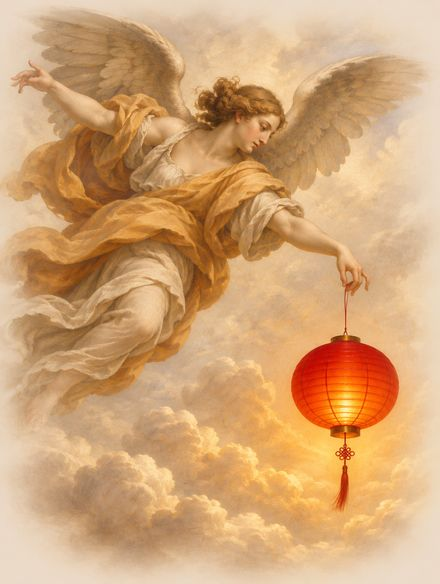
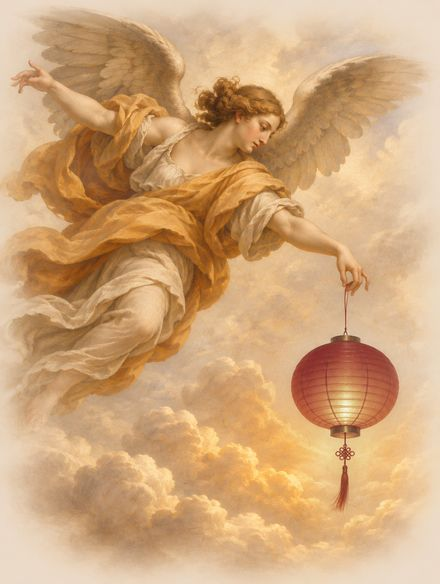
Fade the lantern in the hero painting
Desaturate the lantern area of the painting and soften the glow
overlay so the red sits with the fresco palette.

Claude-Session: https://claude.ai/code/session_01VMC75dovcyg8xHeWok5tKD

Changed region(s): [[0.6205, 0.524, 0.9455, 0.8938]]

diff --git a/index.html b/index.html
@@ -26,7 +26,7 @@
   --cinnabar: #B33B24;
   --on-accent: #FFF8EE;
   --rule: rgba(43, 31, 21, 0.18);
-  --glow: rgba(255, 170, 70, 0.55);
+  --glow: rgba(255, 190, 120, 0.28);
   --grain: 0.07;
 
   --display: "Cormorant Garamond", "Cormorant", "Garamond", "Iowan Old Style", Georgia, serif;
@@ -44,13 +44,13 @@
   :root:not([data-theme="light"]) {
     --vellum: #15100C; --vellum-2: #1F1812; --sepia: #EFE4D0; --umber: #B6A28A; --gold: #D4AA5C;
     --cinnabar: #E2593D; --on-accent: #15100C; --rule: rgba(239, 228, 208, 0.15);
-    --glow: rgba(255, 160, 60, 0.45); --grain: 0.05; color-scheme: dark;
+    --glow: rgba(255, 185, 110, 0.22); --grain: 0.05; color-scheme: dark;
   }
 }
 :root[data-theme="dark"] {
   --vellum: #15100C; --vellum-2: #1F1812; --sepia: #EFE4D0; --umber: #B6A28A; --gold: #D4AA5C;
   --cinnabar: #E2593D; --on-accent: #15100C; --rule: rgba(239, 228, 208, 0.15);
-  --glow: rgba(255, 160, 60, 0.45); --grain: 0.05; color-scheme: dark;
+  --glow: rgba(255, 185, 110, 0.22); --grain: 0.05; color-scheme: dark;
 }
 
 * { box-sizing: border-box; }
@@ -154,7 +154,7 @@ p { margin: 0; }
   mix-blend-mode: screen; pointer-events: none; animation: flicker 4.5s ease-in-out infinite;
 }
 @media (max-width: 959px) { .lantern-glow { top: 74%; width: 52%; } }
-@keyframes flicker { 0%, 100% { opacity: .55; scale: 1; } 40% { opacity: .9; scale: 1.06; } 70% { opacity: .7; scale: 1.02; } }
+@keyframes flicker { 0%, 100% { opacity: .45; scale: 1; } 40% { opacity: .7; scale: 1.04; } 70% { opacity: .55; scale: 1.02; } }
 .fig {
   position: absolute; right: 14%; bottom: 9%; text-align: right; display: grid; gap: 2px;
 }
